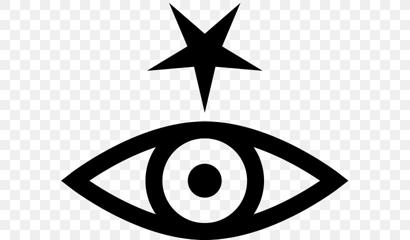
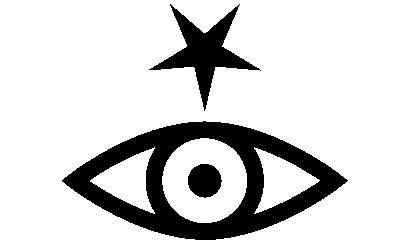
Fixed checkered pattern on figure, updated README

diff --git a/README.md b/README.md
@@ -1,4 +1,37 @@
 # Metis
 
-Minimalist library for training RL agents in PyTorch.  Implements many common 
-training algorithms, including SAC, PPO, A2C, VPG.
+![metis-symbol](https://raw.githubusercontent.com/fkodom/metis/master/docs/media/metis.jpg)
+
+Metis is a minimalist library for training RL agents in PyTorch.  It implements 
+many common training algorithms, with a focus on actor-critic methods. 
+Includes SAC, TD3, PPO, A2C, VPG.
+
+
+### Why the name 'metis'?
+
+The meaning is three-fold: 
+1. The Greek word *metis* meant a quality that combined wisdom and cunning.  
+   Metis feels like an apt description for the goal of RL -- find a cunning way 
+   to gain wisdom about a particular environment.
+2. *Metis* was also a Titaness of Greek mythology, known as the embodiment of
+   "prudence", "wisdom", or "wise counsel".  Again, sounds like a good description
+   for what RL aspires to be.
+3. "Metis" sounds vaguely similar to "meta", as in meta-learning.  For those out
+   there (which definitely includes myself) who need something simpler to remember.
+
+
+### Philosophy
+
+There are lots of RL libraries out there.  In my experience, many of them are 
+unnecessarily complicated, which makes them a nightmare to use.  Others are much
+nicer (e.g. OpenAI's [spinningup](https://github.com/openai/spinningup)), but they
+are not designed for general engineering applications -- they are not so easily 
+"hackable".  Metis was started as a personal project, with the goal of creating 
+a general-purpose RL library that is easy to use and understand (as much as is
+possible for RL algorithms).
+
+Guiding development goals, in order of importance:
+1.  Usability
+2.  Hackability
+3.  Simplicity
+4.  Efficiency
